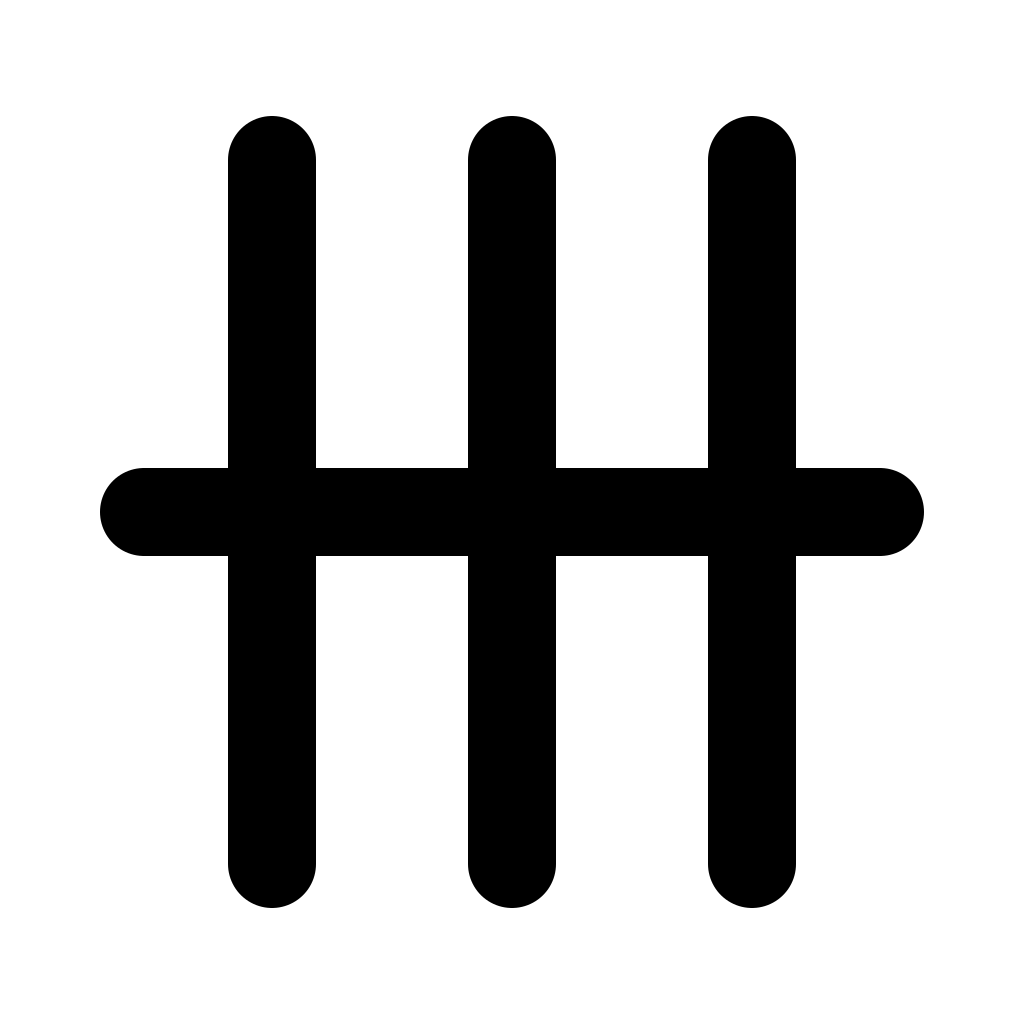
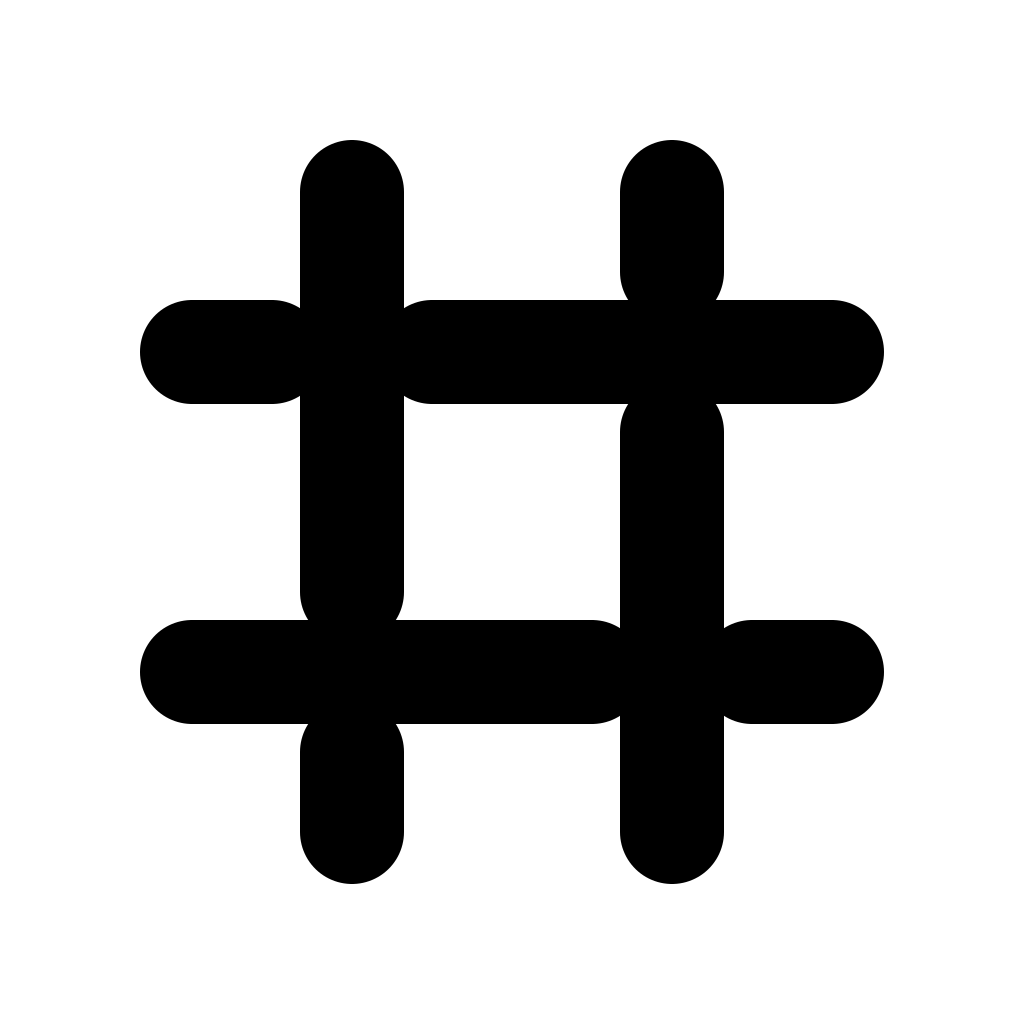
docs: apply org branding / pending clean changes (#2)

diff --git a/README.md b/README.md
@@ -1,3 +1,5 @@
+<p align="center"><img src="https://raw.githubusercontent.com/openweft/brand/main/social/weft-loom-app-osx.png" alt="weft-loom-app-osx" width="720"></p>
+
 # weft-loom-app-osx
 
 macOS menu-bar client for the [Weft](https://github.com/openweft) dashboard.
